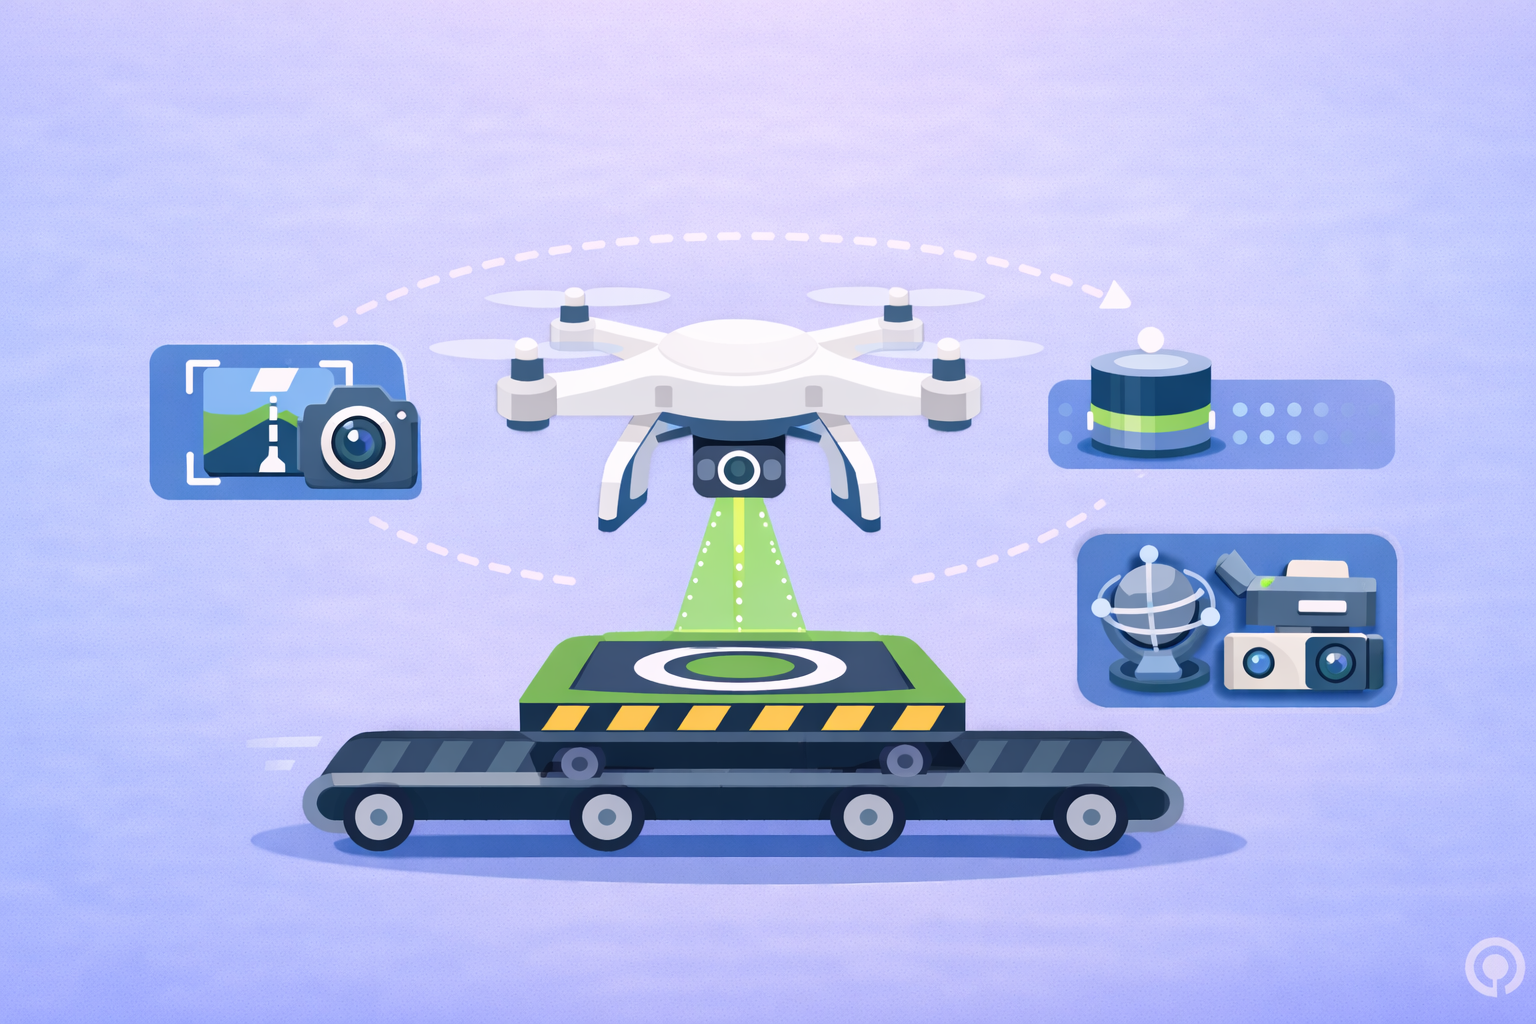
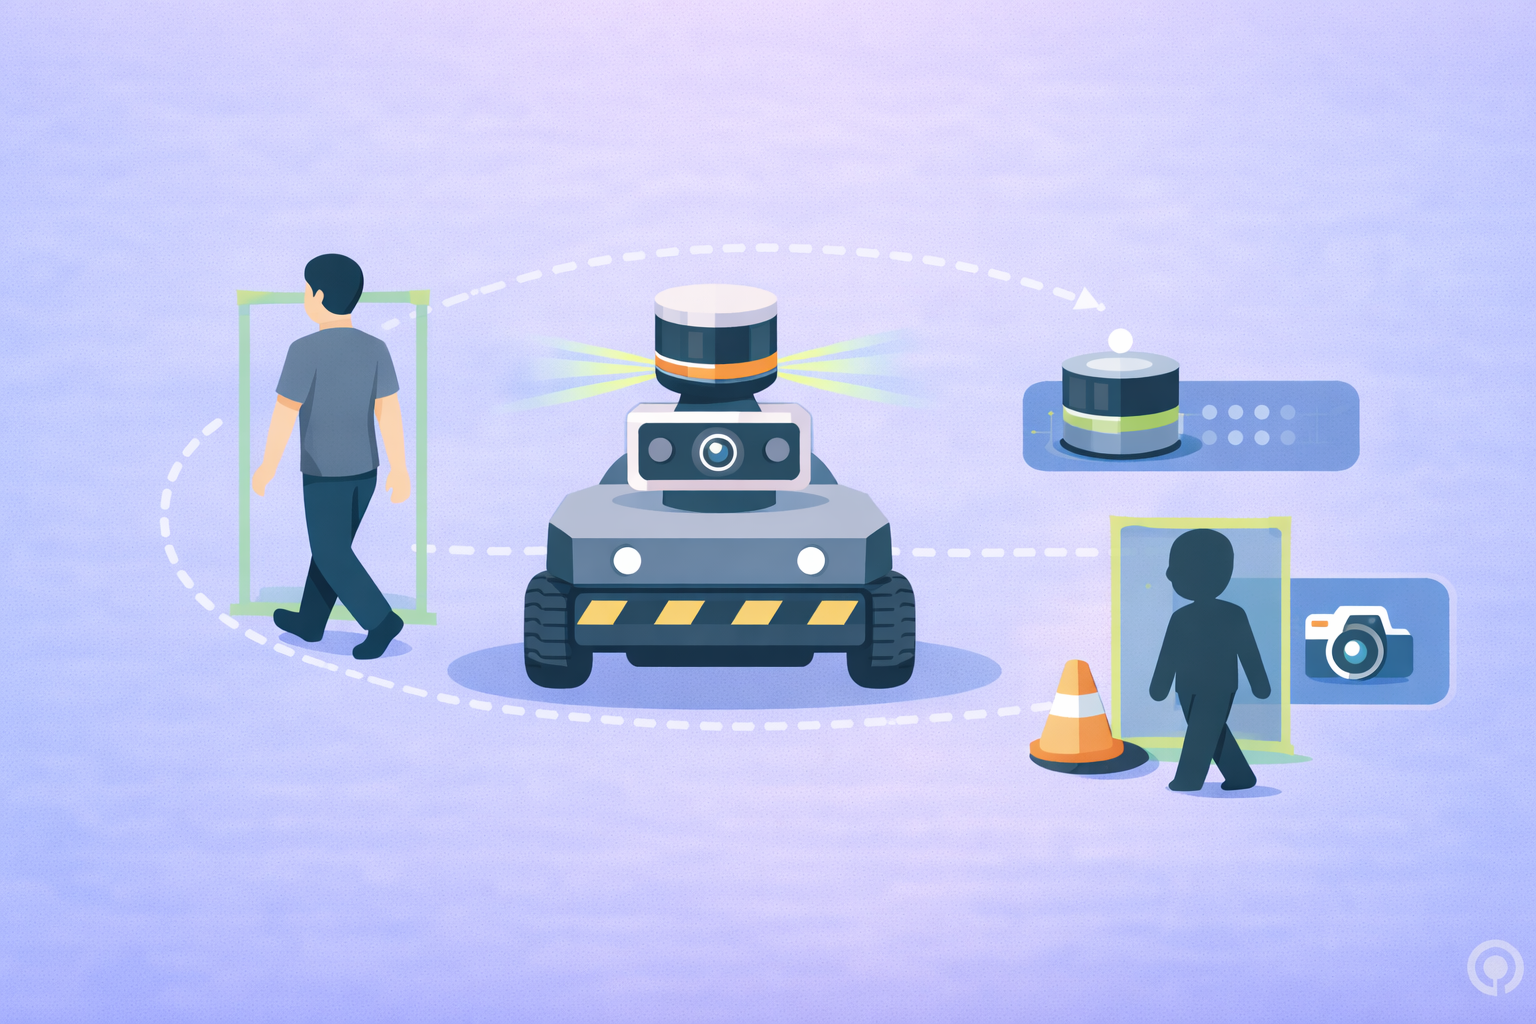
"remove phone number"

Changed region(s): [[0.0938, 0.2188, 0.9688, 0.875]]

diff --git a/index.html b/index.html
@@ -950,11 +950,12 @@ queries and system enhancements.
     <section id="contact" class="section scrollspy full-height">
       <h3 class="page-title white-text teal">Contact</h3>
       <div class="container">
-        <p>
+        <!--<p>
           <a aria-label="Call Onkar" data-position="top" data-tooltip="Call Onkar"
             class="btn-floating btn-large waves-effect waves-light blue-grey tooltipped"><i class="fa fa-phone"></i><a
               aria-label="Call Onkar">[phone redacted]</a></a>
         </p>
+      -->
         <p>
           <a aria-label="Email Onkar" href="mailto:[email redacted]" target="_blank" data-position="top"
             data-tooltip="Email Onkar" class="btn-floating btn-large waves-effect waves-light blue-grey tooltipped"><i